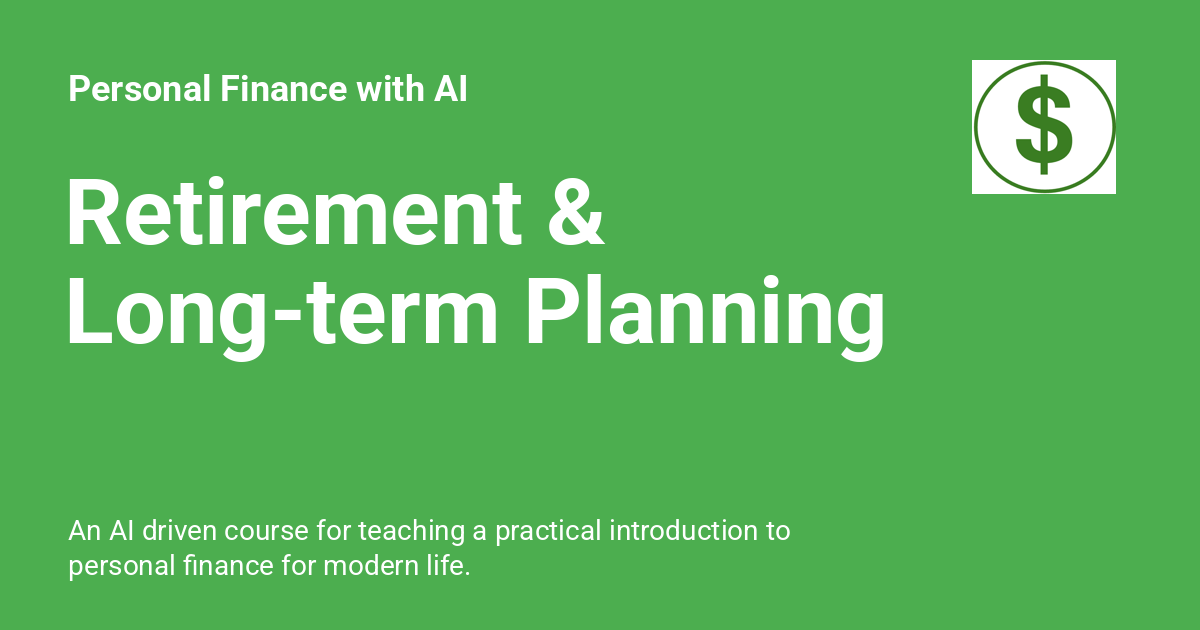
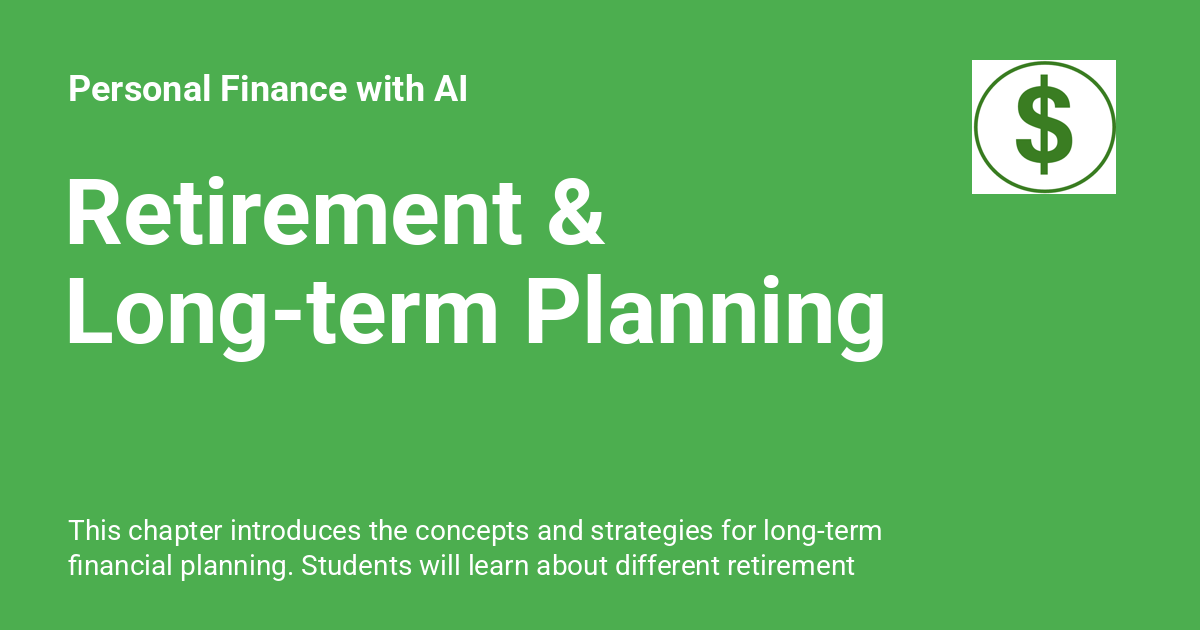
Deployed bc2dace with MkDocs version: 1.6.1

Changed region(s): [[0.0617, 0.8143, 0.74, 0.9349]]

diff --git a/chapters/12-retirement-and-long-term-planning/index.html b/chapters/12-retirement-and-long-term-planning/index.html
@@ -6,7 +6,7 @@
       <meta charset="utf-8">
       <meta name="viewport" content="width=device-width,initial-scale=1">
       
-        <meta name="description" content="An AI driven course for teaching a practical introduction to personal finance for modern life.">
+        <meta name="description" content="This chapter introduces the concepts and strategies for long-term financial planning. Students will learn about different retirement account options, the impact of starting to save early, and methods for estimating retirement needs.">
       
       
         <meta name="author" content="Dan McCreary">
@@ -65,7 +65,7 @@
       
         <meta  property="og:title"  content="Retirement & Long-term Planning - Personal Finance with AI" >
       
-        <meta  property="og:description"  content="An AI driven course for teaching a practical introduction to personal finance for modern life." >
+        <meta  property="og:description"  content="This chapter introduces the concepts and strategies for long-term financial planning. Students will learn about different retirement account options, the impact of starting to save early, and methods for estimating retirement needs." >
       
         <meta  property="og:image"  content="https://dmccreary.github.io/personal-finance/assets/images/social/chapters/12-retirement-and-long-term-planning/index.png" >
       
@@ -81,7 +81,7 @@
       
         <meta  name="twitter:title"  content="Retirement & Long-term Planning - Personal Finance with AI" >
       
-        <meta  name="twitter:description"  content="An AI driven course for teaching a practical introduction to personal finance for modern life." >
+        <meta  name="twitter:description"  content="This chapter introduces the concepts and strategies for long-term financial planning. Students will learn about different retirement account options, the impact of starting to save early, and methods for estimating retirement needs." >
       
         <meta  name="twitter:image"  content="https://dmccreary.github.io/personal-finance/assets/images/social/chapters/12-retirement-and-long-term-planning/index.png" >
       
@@ -139,7 +139,7 @@
         <div class="md-header__topic" data-md-component="header-topic">
           <span class="md-ellipsis">
             
-              Retirement &amp; Long-term Planning
+              Retirement & Long-term Planning
             
           </span>
         </div>
@@ -665,7 +665,7 @@
           
   
   <span class="md-ellipsis">
-    Retirement &amp; Long-term Planning
+    Retirement & Long-term Planning
   </span>
   
 
@@ -676,7 +676,7 @@
         
   
   <span class="md-ellipsis">
-    Retirement &amp; Long-term Planning
+    Retirement & Long-term Planning
   </span>
   
 

diff --git a/sims/compound-interest-visualizer/compound-interest-visualizer.js b/sims/compound-interest-visualizer/compound-interest-visualizer.js
@@ -155,15 +155,15 @@ function drawChart() {
   // Draw axes
   // use these lines to move the entire chart around on the canvas
   push();
-     translate(25, 45);
-  stroke('black');
-  strokeWeight(1);
+     translate(35, 45);
+     stroke('black');
+     strokeWeight(1);
   
-  // Y-axis
-  line(chartMargin, chartMargin, chartMargin, chartMargin + chartHeight);
+     // Y-axis
+     line(chartMargin, chartMargin, chartMargin, chartMargin + chartHeight);
   
-  // X-axis
-  line(chartMargin, chartMargin + chartHeight, chartMargin + chartWidth, chartMargin + chartHeight);
+     // X-axis
+     line(chartMargin, chartMargin + chartHeight, chartMargin + chartWidth, chartMargin + chartHeight);
   
   // Draw Y-axis labels
   textAlign(RIGHT, CENTER);
@@ -198,7 +198,7 @@ function drawChart() {
   push();
      translate(chartMargin - 35, chartMargin + chartHeight/2);
      rotate(-PI / 2);
-     text("Account Value ($)", 0, -15);
+     text("Account Value ($)", 0, -25);
   pop();
   
   // Draw Initial Investment area (blue)

diff --git a/stories/index.html b/stories/index.html
@@ -898,7 +898,7 @@
       <nav class="md-footer__inner md-grid" aria-label="Footer" >
         
           
-          <a href="../chapters/12-retirement-and-long-term-planning/" class="md-footer__link md-footer__link--prev" aria-label="Previous: Retirement &amp;amp; Long-term Planning">
+          <a href="../chapters/12-retirement-and-long-term-planning/" class="md-footer__link md-footer__link--prev" aria-label="Previous: Retirement &amp; Long-term Planning">
             <div class="md-footer__button md-icon">
               
               <svg xmlns="http://www.w3.org/2000/svg" viewBox="0 0 24 24"><path d="M20 11v2H8l5.5 5.5-1.42 1.42L4.16 12l7.92-7.92L13.5 5.5 8 11z"/></svg>
@@ -908,7 +908,7 @@
                 Previous
               </span>
               <div class="md-ellipsis">
-                Retirement &amp; Long-term Planning
+                Retirement & Long-term Planning
               </div>
             </div>
           </a>

diff --git a/chapters/11-career-planning-and-income/index.html b/chapters/11-career-planning-and-income/index.html
@@ -714,7 +714,7 @@
         
   
   <span class="md-ellipsis">
-    Retirement &amp; Long-term Planning
+    Retirement & Long-term Planning
   </span>
   
 
@@ -1212,13 +1212,13 @@
         
         
           
-          <a href="../12-retirement-and-long-term-planning/" class="md-footer__link md-footer__link--next" aria-label="Next: Retirement &amp;amp; Long-term Planning">
+          <a href="../12-retirement-and-long-term-planning/" class="md-footer__link md-footer__link--next" aria-label="Next: Retirement &amp; Long-term Planning">
             <div class="md-footer__title">
               <span class="md-footer__direction">
                 Next
               </span>
               <div class="md-ellipsis">
-                Retirement &amp; Long-term Planning
+                Retirement & Long-term Planning
               </div>
             </div>
             <div class="md-footer__button md-icon">

diff --git a/feedback/index.html b/feedback/index.html
@@ -781,8 +781,7 @@
 
 
 <h1 id="feedback-on-graph-data-modeling">Feedback on Graph Data Modeling</h1>
-<p>You are welcome to connect with me on anytime on <a href="https://www.linkedin.com/in/danmccreary/">LinkedIn</a> or submit any issues to <a href="https://github.com/dmccreary/graph-data-modeling-course/issues">GitHub Issue Log</a>.  All pull-requests with
-fixes to errors or additions are always welcome.</p>
+<p>You are welcome to connect with me on anytime on <a href="https://www.linkedin.com/in/danmccreary/">LinkedIn</a> or submit any issues to <a href="https://github.com/dmccreary/personal-finance/issues">GitHub Issue Log</a>.  All pull-requests with fixes to errors or additions are always welcome.</p>
 <p>If you would like to fill out a short <a href="https://forms.gle/iDKm39J5Bgvmxket8">survey</a> and give us ideas on how we can create better tools for intelligent textbooks in the future.</p>
 
 

diff --git a/chapters/01-foundational-financial-concepts/index.html b/chapters/01-foundational-financial-concepts/index.html
@@ -810,7 +810,7 @@
         
   
   <span class="md-ellipsis">
-    Retirement &amp; Long-term Planning
+    Retirement & Long-term Planning
   </span>
   
 

diff --git a/chapters/02-banking-and-cash-management/index.html b/chapters/02-banking-and-cash-management/index.html
@@ -714,7 +714,7 @@
         
   
   <span class="md-ellipsis">
-    Retirement &amp; Long-term Planning
+    Retirement & Long-term Planning
   </span>
   
 

diff --git a/chapters/03-budgeting-and-financial-planning/index.html b/chapters/03-budgeting-and-financial-planning/index.html
@@ -714,7 +714,7 @@
         
   
   <span class="md-ellipsis">
-    Retirement &amp; Long-term Planning
+    Retirement & Long-term Planning
   </span>
   
 

diff --git a/chapters/04-credit-and-debt-management/index.html b/chapters/04-credit-and-debt-management/index.html
@@ -714,7 +714,7 @@
         
   
   <span class="md-ellipsis">
-    Retirement &amp; Long-term Planning
+    Retirement & Long-term Planning
   </span>
   
 

diff --git a/chapters/05-saving-and-investing/index-funds/index.html b/chapters/05-saving-and-investing/index-funds/index.html
@@ -666,7 +666,7 @@
         
   
   <span class="md-ellipsis">
-    Retirement &amp; Long-term Planning
+    Retirement & Long-term Planning
   </span>
   
 

diff --git a/chapters/05-saving-and-investing/index.html b/chapters/05-saving-and-investing/index.html
@@ -714,7 +714,7 @@
         
   
   <span class="md-ellipsis">
-    Retirement &amp; Long-term Planning
+    Retirement & Long-term Planning
   </span>
   
 

diff --git a/chapters/06-income-and-taxes/index.html b/chapters/06-income-and-taxes/index.html
@@ -714,7 +714,7 @@
         
   
   <span class="md-ellipsis">
-    Retirement &amp; Long-term Planning
+    Retirement & Long-term Planning
   </span>
   
 
